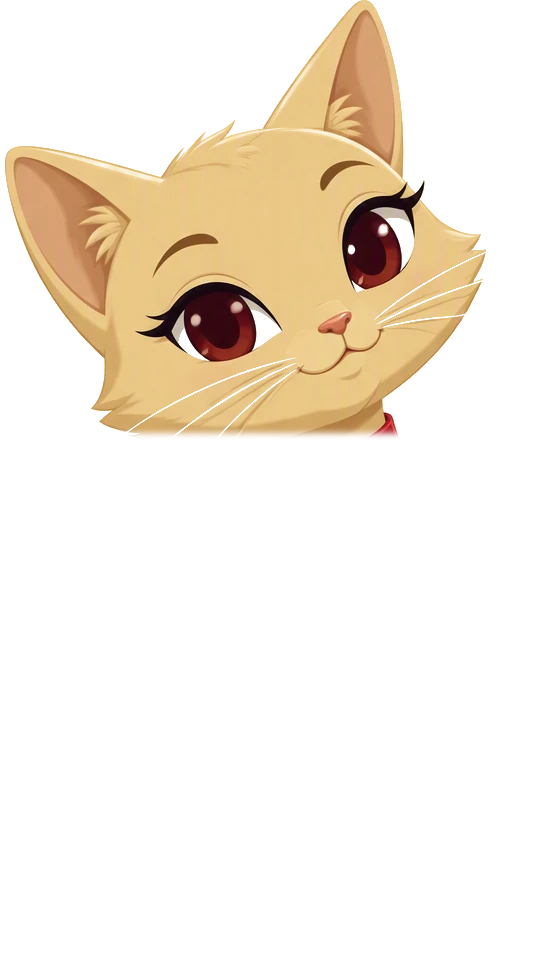
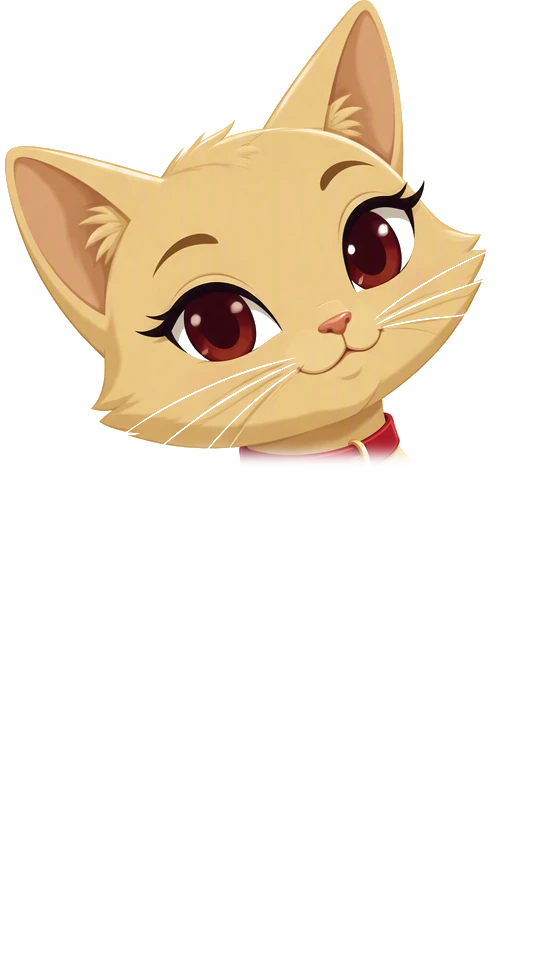
Gattina sul sito: solo i movimenti senza cuciture (palpebre, orecchie, respiro, accenno di coda e di sguardo); via zampa e testa che scende — per quelle servono pose disegnate

Changed region(s): [[0.2375, 0.4357, 0.7421, 0.4979]]

diff --git a/cat.js b/cat.js
@@ -1,8 +1,10 @@
 /* La gattina di Kumi, animata a strati: è l'illustrazione originale
    ritagliata in pezzi (site/assets/cat/*.webp, generati da
    tools/cat_layers.py) mossi con trasformazioni CSS. Respira, sbatte le
-   palpebre, muove la punta della coda e le orecchie, segue il cursore (o lo
-   scorrimento) con la testa e ogni tanto si lecca la zampa. */
+   palpebre, muove la punta della coda e le orecchie e segue appena il cursore
+   (o lo scorrimento) con la testa. Solo movimenti piccoli: staccare pezzi
+   grandi (zampa che sale, testa che scende) mostra le cuciture del ritaglio.
+   Per leccarsi la zampa o camminare servono pose disegnate. */
 (function () {
   'use strict';
 
@@ -39,37 +41,26 @@
     return d;
   }
 
-  var tail = layer('tail', P.tail), body = layer('body', P.body), collar = layer('collar');
+  var tail = layer('tail', P.tail), body = layer('body', P.body);
   var headWrap = document.createElement('div'); headWrap.className = 'kc-head-wrap';
   headWrap.style.transformOrigin = origin(P.neck);
   var head = layer('head'), earL = layer('ear_l', P.earL), earR = layer('ear_r', P.earR);
   var lidL = lid([160, 268, 280, 372]), lidR = lid([330, 190, 432, 302]);
-  var tongue = document.createElement('div'); tongue.className = 'kc-tongue';
-  tongue.style.left = pct(346, W); tongue.style.top = pct(354, H);
-  tongue.style.width = pct(18, W); tongue.style.height = pct(20, H);
   headWrap.appendChild(head); headWrap.appendChild(earL); headWrap.appendChild(earR);
-  headWrap.appendChild(lidL); headWrap.appendChild(lidR); headWrap.appendChild(tongue);
-  var upper = layer('upper', P.shoulder), lower = layer('lower', P.elbow);
-  var arm = document.createElement('div'); arm.className = 'kc-arm'; arm.style.transformOrigin = origin(P.shoulder);
-  arm.appendChild(upper); arm.appendChild(lower);
+  headWrap.appendChild(lidL); headWrap.appendChild(lidR);
 
   stage.innerHTML = '';
-  [tail, body, collar, headWrap, arm].forEach(function (n) { stage.appendChild(n); });
+  [tail, body, headWrap].forEach(function (n) { stage.appendChild(n); });
 
   var reduce = window.matchMedia && window.matchMedia('(prefers-reduced-motion: reduce)').matches;
   var t0 = performance.now();
   var blink = 0, blinkNext = 2400 + Math.random() * 2600, blinkDouble = false;
   var earKick = 0, earNext = 3000 + Math.random() * 5000, earSide = 0;
-  var lick = -1, lickNext = 8000 + Math.random() * 6000;
   var look = { x: 0, y: 0 }, target = { x: 0, y: 0 };
   var glance = 0, lastScroll = window.scrollY;
   var awake = false;
 
   function ease(t) { return t < .5 ? 2 * t * t : -1 + (4 - 2 * t) * t; }
-  /* La posa del "lick": regolabile dall'indirizzo per provarla
-     (#lick&u=-120&l=-70&s=1.1&hr=16&hx=14&hy=36&c=14). */
-  var Q = {}; location.hash.replace(/^#/, '').split('&').forEach(function (kv) { var p = kv.split('='); Q[p[0]] = parseFloat(p[1]); });
-  var POSE = { u: Q.u || -104, l: Q.l || -82, s: Q.s || 1, hr: Q.hr || 13, hx: Q.hx || 12, hy: Q.hy || 30, c: Q.c || 12 };
   function clamp(v, a, b) { return v < a ? a : v > b ? b : v; }
 
   window.addEventListener('pointermove', function (e) {
@@ -96,37 +87,16 @@
 
     /* respiro e coda */
     body.style.transform = 'scale(' + (1 + Math.sin(t * 1.8) * .004) + ',' + (1 + Math.sin(t * 1.8) * .012) + ')';
-    tail.style.transform = 'rotate(' + (Math.sin(t * 1.4) * 7) + 'deg)';
+    tail.style.transform = 'rotate(' + (Math.sin(t * 1.4) * 2.5) + 'deg)';
 
     /* sguardo: cursore + scorrimento, con inerzia */
     glance *= .94;
     look.x += (target.x - look.x) * .06;
     look.y += (target.y + glance * .7 - look.y) * .06;
-    var headRot = look.x * 2.5 + Math.sin(t * .45) * .8;
-    var headX = look.x * 5, headY = look.y * 4, collarY = 0;
+    var headRot = look.x * 1.6 + Math.sin(t * .45) * .5;
+    var headX = look.x * 4, headY = look.y * 3;
 
-    /* si lecca la zampa: la zampa sale al muso e la testa scende a incontrarla */
-    var upRot = 0, lowRot = 0, lowScale = 1, tng = 0;
-    if (location.hash.indexOf('#lick') === 0) lick = now - 1500;
-    if (lick < 0 && awake && now - t0 > lickNext) { lick = now; lickNext = now - t0 + 12000 + Math.random() * 7000; }
-    if (lick >= 0) {
-      var L = (now - lick) / 1000, D = 3.6;
-      if (L > D) lick = -1;
-      else {
-        var up = clamp(L / .7, 0, 1), down = clamp((L - (D - .7)) / .7, 0, 1);
-        var a = ease(up) * (1 - ease(down));
-        upRot = POSE.u * a; lowRot = POSE.l * a; lowScale = 1 + (POSE.s - 1) * a;
-        headRot += POSE.hr * a; headX += POSE.hx * a; headY += POSE.hy * a; collarY = POSE.c * a;
-        var lk = L - .8;
-        if (lk > 0 && lk < 2.0) { tng = Math.max(0, Math.sin(lk * Math.PI * 3)); headY += Math.sin(lk * Math.PI * 3) * 3; }
-      }
-    }
-    arm.style.transform = 'rotate(' + upRot + 'deg)';
-    lower.style.transform = 'rotate(' + lowRot + 'deg) scaleY(' + lowScale + ')';
-    tongue.style.opacity = tng * .95;
-    tongue.style.transform = 'translateY(' + (tng * 6) + 'px) scale(' + (.4 + tng * .6) + ')';
     headWrap.style.transform = 'translate(' + headX + 'px,' + headY + 'px) rotate(' + headRot + 'deg)';
-    collar.style.transform = 'translate(' + (headX * .5) + 'px,' + collarY + 'px)';
 
     /* battito di ciglia, a volte doppio */
     if (awake && now - t0 > blinkNext && blink === 0) blink = now;
